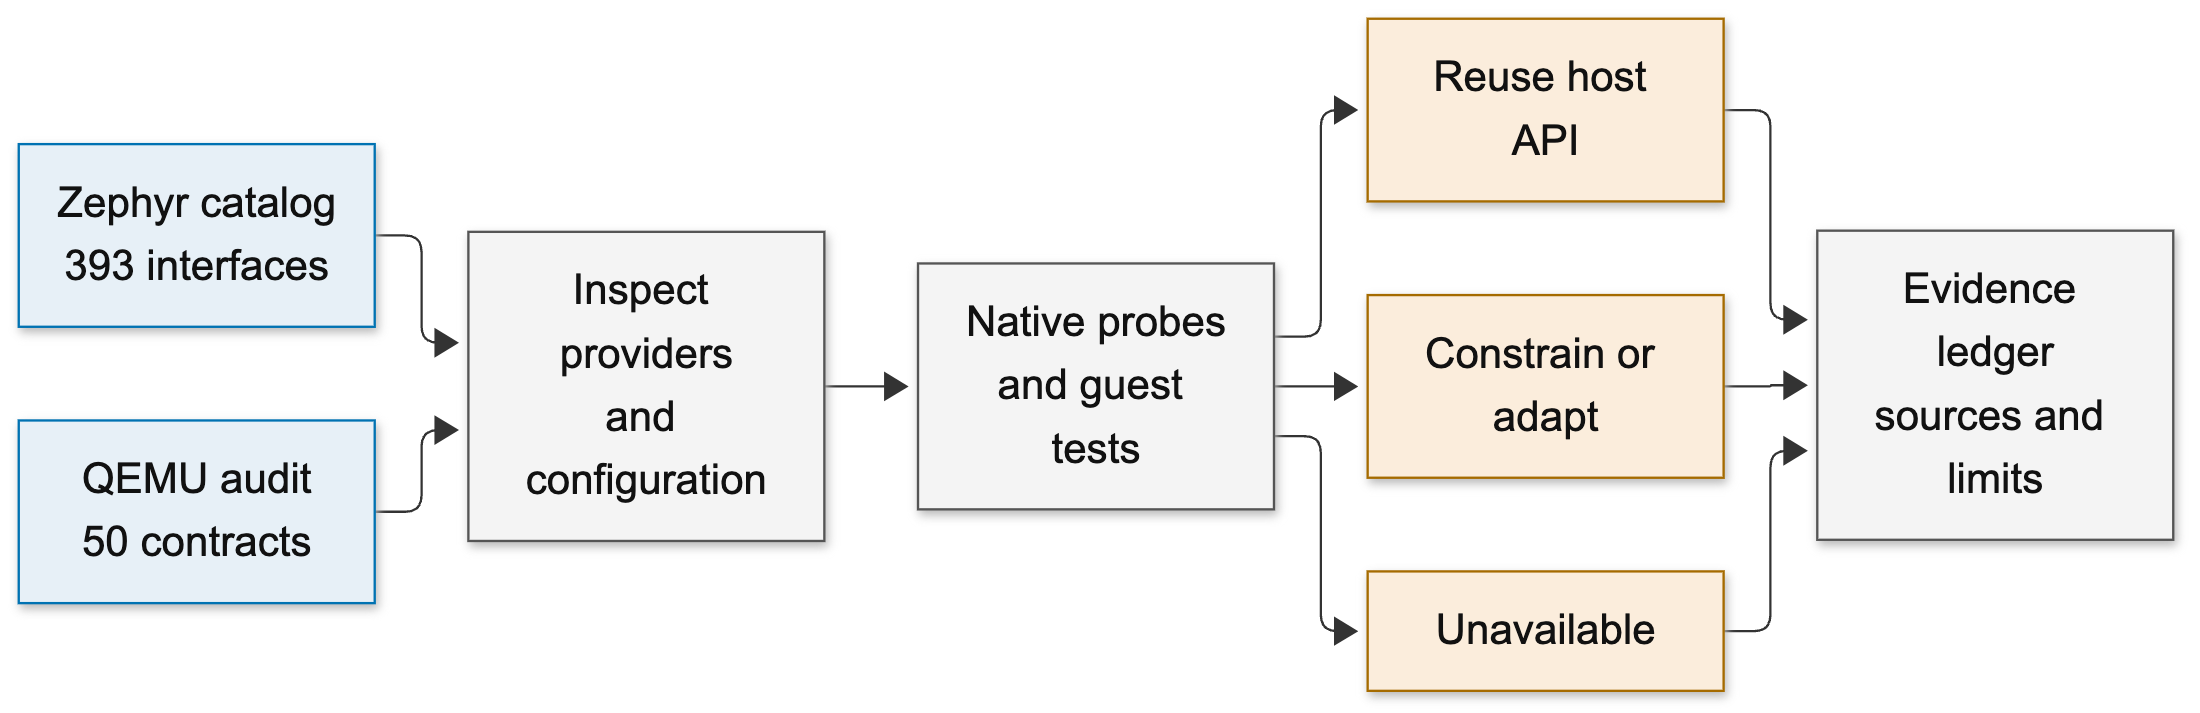
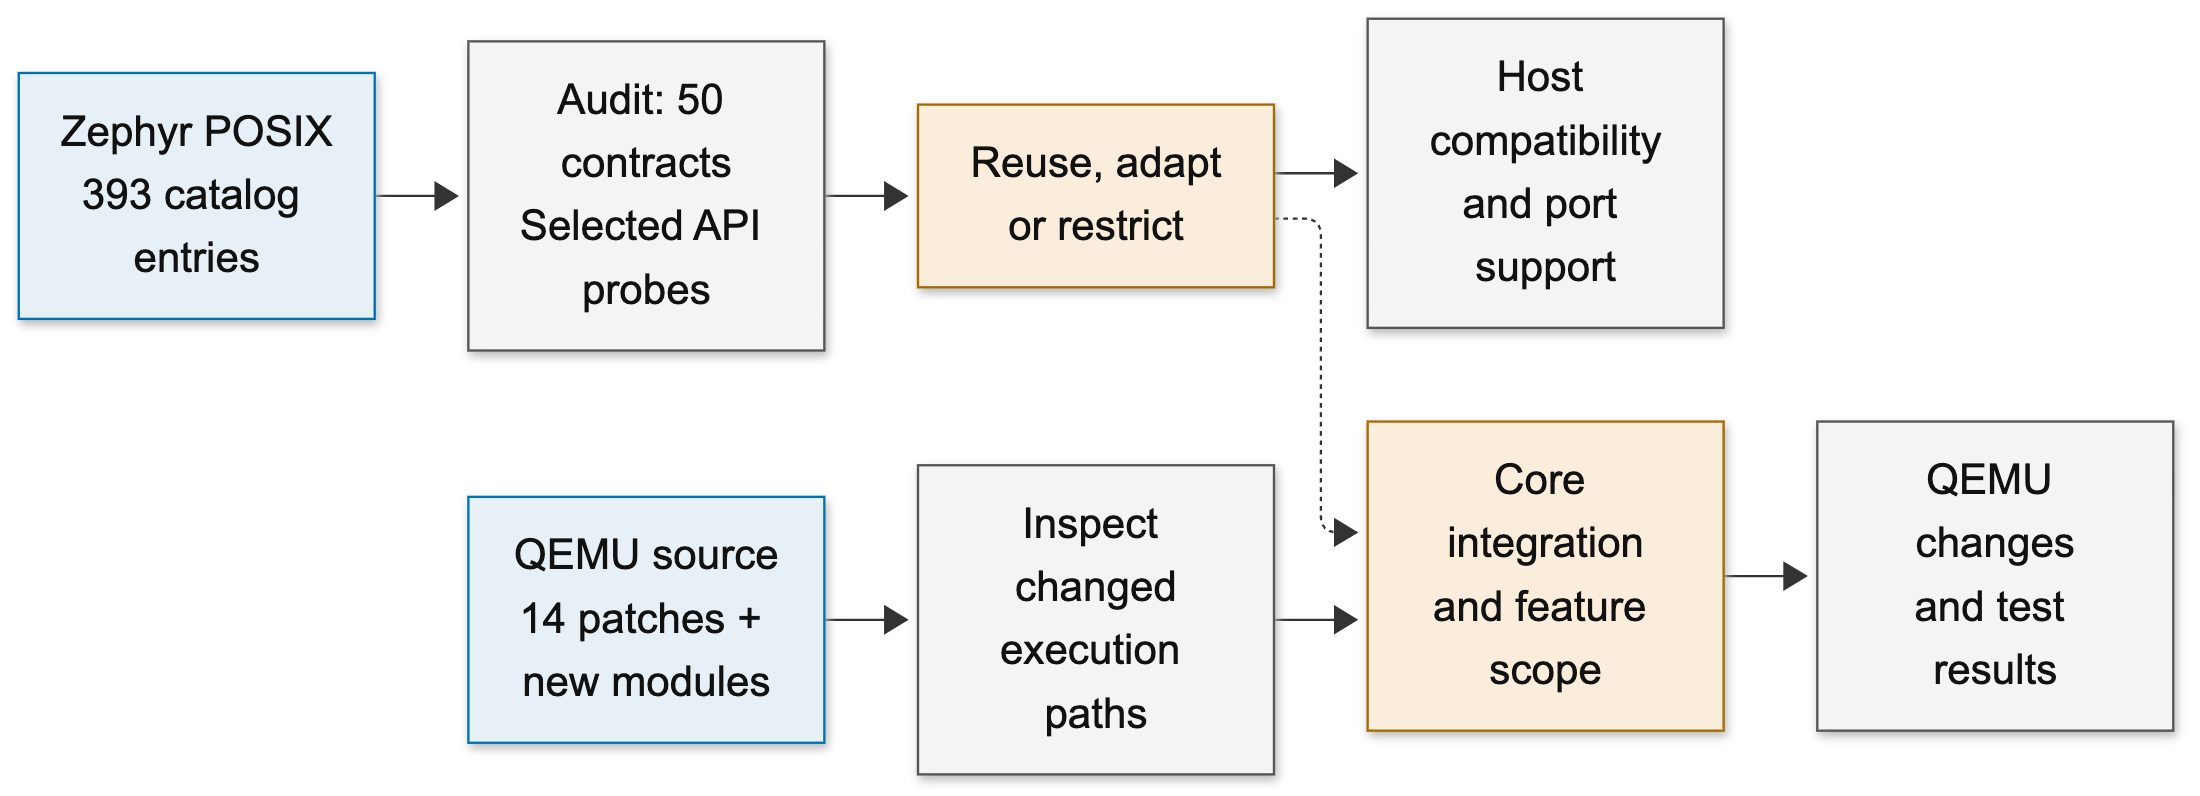
docs: separate host compatibility from QEMU implementation changes
Organize the paper around POSIX behavior and added port support, followed
by changes to QEMU source and execution paths. Classify libraries, build,
storage and Zephyr architecture support alongside their host API roles.

Record existing QEMU patches by purpose with a source-checked ledger.
Describe new modules, retained components and build exclusions, and show
the causal link between host constraints and emulator changes in the flow.

Verify patch statistics, retained POSIX observations, document links,
diagram rendering and compilation of the current LaTeX source.

diff --git a/docs/paper.tex b/docs/paper.tex
@@ -55,6 +55,10 @@ operations. File mappings, positional I/O, signals, and process lifetime
 require adapters or restricted behavior. Source inspection, native API
 probes, and guest executions identify these limits.
 
+Host compatibility depends on POSIX behavior, added libraries, and Zephyr
+kernel support. QEMU needs 14 patches to existing files plus new machine,
+accelerator, and user-runtime modules.
+
 The Zephyr catalog lists 393 interfaces, with qualifications or missing
 support labels for 104 entries. A separate audit of 50 host interfaces finds
 31 reused APIs, eight adaptations, two metadata limits, and nine unavailable
@@ -80,16 +84,17 @@ and C library determine which POSIX services the application can
 use~\cite{zephyr-posix}. The port must account for API behavior, resource
 limits, and this shared runtime. The evaluation records direct API use,
 project adaptations, and missing behavior for the fixed source revisions.
+It also records how the port changes QEMU execution paths and which upstream
+components it retains.
 
 \section{Assessment scope}
 \label{sec:frame}
 
-The assessment separates the host POSIX API, QEMU library requirements, and
-the guest Linux ABI. Each finding records its implementation, configuration,
-adapter, and test result. Source inspection identifies code paths such as
-\code{ENOSYS} returns. Runtime observations establish behavior for the
-executed inputs. Figure~\ref{fig:assessment-flow} gives the workflow;
-Section~\ref{sec:inventory} defines the two inventory denominators.
+The assessment uses two axes (Figure~\ref{fig:assessment-flow}).
+The first records POSIX behavior and the support added during the port.
+The second records changes to QEMU code and its execution model.
+One host limitation can cause changes on both axes; the records retain that
+causal link.
 
 \begin{figure*}[t]
 \centering
@@ -97,58 +102,103 @@ Section~\ref{sec:inventory} defines the two inventory denominators.
 \resizebox{\textwidth}{!}{%
 \begin{tikzpicture}[x=1mm,y=1mm,
   box/.style={draw=black!65,fill=black!3,rounded corners=1mm,
-    text width=24mm,minimum height=10mm,align=center,font=\footnotesize},
+    text width=28mm,minimum height=14mm,align=center,font=\footnotesize},
   inputbox/.style={box,draw=posixblue,fill=posixblue!9},
   route/.style={box,draw=posixorange!75!black,fill=posixorange!12},
   edge/.style={-{Stealth[length=1.8mm]},line width=0.5pt}]
-\node[inputbox] (A) at (0,9) {Zephyr catalog\\393 interfaces};
-\node[inputbox] (B) at (0,-9) {QEMU audit\\50 contracts};
-\node[box] (C) at (34,0) {Inspect providers\\and configuration};
-\node[box] (D) at (68,0) {Native probes\\and guest tests};
-\node[route] (E) at (102,16) {Reuse host API};
-\node[route] (F) at (102,0) {Constrain or adapt};
-\node[route] (G) at (102,-16) {Unavailable};
-\node[box] (H) at (136,0) {Evidence ledger\\sources and limits};
-\draw[edge] (A.east) -- (C.west);
-\draw[edge] (B.east) -- (C.west);
+\node[inputbox] (A) at (0,13) {Zephyr POSIX\\393 catalog entries};
+\node[box] (B) at (45,13) {Audit: 50 contracts\\Selected API probes};
+\node[route] (C) at (90,13) {Reuse, adapt\\or restrict};
+\node[box] (D) at (135,13) {Host compatibility\\and port support};
+\node[inputbox] (E) at (0,-13) {QEMU source\\14 patches + new modules};
+\node[box] (F) at (45,-13) {Inspect changed\\execution paths};
+\node[route] (G) at (90,-13) {Core integration\\and feature scope};
+\node[box] (H) at (135,-13) {QEMU changes\\and test results};
+\draw[edge] (A) -- (B);
+\draw[edge] (B) -- (C);
 \draw[edge] (C) -- (D);
-\draw[edge] (D.east) -- (E.west);
-\draw[edge] (D) -- (F);
-\draw[edge] (D.east) -- (G.west);
-\draw[edge] (E.east) -- (H.west);
-\draw[edge] (F) -- (H);
-\draw[edge] (G.east) -- (H.west);
+\draw[edge] (E) -- (F);
+\draw[edge] (F) -- (G);
+\draw[edge] (G) -- (H);
+\draw[edge,dashed] (C.south) -- (G.north);
 \end{tikzpicture}}
-\caption{Assessment workflow. Each finding retains its provider,
-configuration, evidence and limitations.}
+\caption{Two assessment axes. The upper path records host behavior and
+additional port support. The lower path records QEMU implementation changes.
+The dashed edge links a host constraint to its effect on QEMU.}
 \label{fig:assessment-flow}
 \end{figure*}
 
-\subsection{The host POSIX interface}
+\subsection{Host compatibility and port support}
 
 QEMU calls Zephyr and Picolibc for threads, clocks, files, and related host
 services. The application enables compiler TLS and sets finite limits for
 threads, mutexes, condition variables, and descriptors. These settings are in
 \source{apps/qemu_linux/prj.conf} and \source{zephyr/Kconfig}.
 
-\subsection{QEMU library requirements}
+This axis records direct POSIX use, restricted behavior, and missing services.
+It also identifies additional library, build, storage, and kernel support.
+Sections~\ref{sec:porting} and~\ref{sec:assessment} give the implementations
+and observations.
 
-QEMU uses the QEMU Object Model (QOM), MemoryRegion, the big QEMU lock (BQL),
-and read-copy-update (RCU). The port includes GLib containers and TCG.
-The GLib tests record library behavior. Feature exclusions, such as
-migration, describe this QEMU build. They require source analysis before
-attribution to a missing POSIX service.
+GLib supplies library behavior outside POSIX. User programs issue Linux
+AArch64 syscall numbers, while Zephyr generates its kernel syscall identifiers
+at build time~\cite{zephyr-implementation}. The guest ABI adapter in
+\source{src/qemu/ports/zephyr/user-syscall.c} has separate results.
 
-\subsection{The guest Linux ABI}
+\subsection{QEMU implementation changes}
 
-User programs issue Linux AArch64 syscall numbers. Zephyr uses kernel syscall
-identifiers generated at build time~\cite{zephyr-implementation}.
-\source{src/qemu/ports/zephyr/user-syscall.c} translates the Linux ABI to host
-operations. Guest syscall tests examine this adapter and the host services
-that it calls.
+This axis records patches to existing QEMU files, new QEMU modules, and
+features excluded from the build. It identifies the changed execution paths
+and the upstream components that remain in use.
+Section~\ref{sec:qemu-changes} gives the patch groups and module roles.
 
-\section{Porting method}
+Core components include the QEMU Object Model (QOM), big QEMU lock (BQL),
+and read-copy-update (RCU).
+
+For example, the host probe records \code{mprotect()} returning
+\code{ENOSYS}. The QEMU change record identifies the TCG and memory-helper
+changes that enforce guest permissions. The first result describes host
+behavior; the second describes the emulator's response.
+
+\section{Host compatibility: added port support}
 \label{sec:porting}
+
+The port adds the support in Table~\ref{tab:port-support}. Its POSIX wrappers
+reuse enabled APIs. Other additions supply library behavior, kernel
+integration, or application control.
+The Zephyr series in \source{patches/zephyr/series} contains six architecture
+patches and one Ext2 patch.
+
+\begin{table*}[t]
+\caption{Support added to host QEMU on Zephyr. These components have distinct
+roles in the POSIX assessment.}
+\label{tab:port-support}
+\small
+\begin{tabularx}{\textwidth}{@{}>{\raggedright\arraybackslash}p{0.19\textwidth}YY@{}}
+\toprule
+Area & Added support & Attribution\\
+\midrule
+Files & Private mapped-file snapshots; seek/I/O/restore; read-only Ext2
+synchronization fix & File adapter and filesystem changes; native POSIX
+behavior remains subject to descriptor and metadata limits.\\
+Memory and faults & Writable/executable JIT aliases; bounded guest mappings;
+checked user accesses & Kernel APIs and QEMU adapters supply the required
+behavior; host mprotect remains unavailable.\\
+Threads and lifetime & One QEMU owner; BQL tracking; deferred RCU callbacks;
+timer exits; worker-local exit target & Pthread APIs supply threads and locks;
+the port defines ownership, event handling, and guest lifetime.\\
+Libraries and build & GLib subset; libfdt/zlib integration; CMake source
+selection and upstream generators & Dependency and build support outside
+the POSIX interface count.\\
+Storage and commands & VirtIO disk attachment; Ext2 mount; UART shell
+commands and argument ownership & Application integration for image loading,
+manual launch, and return to the shell.\\
+EL2 platform & Non-VHE entry; Stage-2 mappings; interrupt/timer handling;
+TLS and SIMD/FP context & Zephyr architecture support used by the new QEMU
+accelerator; independent of POSIX API completeness.\\
+\bottomrule
+\end{tabularx}
+\end{table*}
 
 \subsection{Build from fixed revisions}
 
@@ -212,7 +262,7 @@ calls the same handler through \code{shell\_execute\_cmd()}~\cite{shell}.
 A worker-local exit target converts QEMU loader exits to command results.
 \source{src/qemu/ports/zephyr/console-uart.c} implements the console adapter.
 
-\section{Zephyr POSIX support}
+\section{Host compatibility: POSIX results}
 \label{sec:assessment}
 
 \subsection{Interface inventories}
@@ -441,8 +491,81 @@ The results apply to the fixed revisions, configured resources, and one
 QEMU owner thread. Full POSIX evaluation requires a declared profile and
 tests of its complete interface requirements, error paths, and concurrency.
 
-\section{Simulation and virtualization}
+\section{QEMU implementation changes}
+\label{sec:qemu-changes}
 \label{sec:capabilities}
+
+\subsection{Changes to existing source}
+
+The series contains 14 patches to 34 QEMU files, with 348 inserted lines and
+87 deleted lines. Table~\ref{tab:qemu-patches} groups patches by their main
+purpose. The numbers refer to \source{patches/qemu/series}; the data is in
+\source{docs/data/qemu-patches.csv}.
+
+These counts describe edits to existing files. New host, machine, accelerator,
+and user-runtime modules reside under \source{src/qemu/}. Zephyr architecture
+extensions reside under \source{src/zephyr/}. The Cortex-A72 move accounts
+for 62 inserted and 62 deleted lines, with its register values retained.
+
+\begin{table*}[t]
+\caption{Patches to existing QEMU files, grouped by main purpose. Insertions
+and deletions count physical diff lines; new module files are outside these totals.}
+\label{tab:qemu-patches}
+\small
+\begin{tabularx}{\textwidth}{@{}>{\raggedright\arraybackslash}p{0.20\textwidth}lrrY@{}}
+\toprule
+Group & Patches & Added & Deleted & QEMU behavior changed\\
+\midrule
+Host interface & 0001--0005 & 68 & 8 & Headers, macro names, page size,
+aligned allocation, file paths, optional timestamps, and deterministic random mode.\\
+CPU and runstate & 0006, 0010 & 66 & 2 & Accelerator initialization,
+non-signal CPU wakeup, guest shutdown/reset, and omitted GDB or migration hooks.\\
+Device, loader, RAM & 0007--0009 & 47 & 1 & Migration registration,
+firmware-configuration services, and host memory-backend assumptions.\\
+TCG code allocation & 0011 & 14 & 1 & JIT buffer allocation through the
+Zephyr writable/executable aliases.\\
+CPU models & 0012--0013 & 67 & 62 & GICv3-only initialization and
+shared Cortex-A72 registration across accelerators.\\
+Linux user execution & 0014 & 86 & 13 & Checked memory access, code
+invalidation, ELF metadata policy, virtual identity, and omitted Linux host services.\\
+\midrule
+Total & 14 patches & 348 & 87 & 34 existing files.\\
+\bottomrule
+\end{tabularx}
+\end{table*}
+
+\subsection{Core execution changes}
+
+CPU initialization calls the accelerator hook during ARM object construction.
+Runstate changes pass shutdown and reset requests to the QEMU owner.
+CPU wakeup uses the accelerator callback in place of a host signal.
+The RAM path accepts preallocated memory and rejects unsupported remapping.
+
+User TCG sends generated loads and stores through checked helpers.
+Atomic and bulk-memory helpers verify guest access, including DC ZVA.
+Writes to translated code trigger invalidation without host
+\code{mprotect()}. The ELF path uses the available metadata and a virtual
+root identity. It omits the Linux host vDSO, signal trampoline, and core dumps.
+
+\subsection{New modules and build profile}
+
+\source{src/qemu/ports/zephyr/machine.c} defines \code{zephyr-virt}; the bootstrap and
+option modules provide its launch path. The \code{zephyr} accelerator and
+ARM adapter connect QEMU CPU and device state to \code{zhv}.
+\source{src/qemu/ports/zephyr/tcg.c} binds the upstream execution loop to the owner
+thread and Zephyr timers.
+
+The user build adds \source{user.c}, \source{user-memory.c}, and
+\source{user-syscall.c} under \source{src/qemu/ports/zephyr/}.
+It retains upstream TCG and ELF loading but supplies its own syscall dispatch,
+memory policy, and process lifetime. The GLib subset belongs to host
+dependency support in Section~\ref{sec:porting}.
+
+The selected source lists omit migration, general monitor services, and the
+inner GDB server. Other exclusions appear in Section~\ref{sec:implications}.
+QEMU still supplies instruction decoders, translation blocks, QOM/qdev,
+MemoryRegion dispatch, PL011, software GICv3, and ELF parsing.
+BQL and RCU remain part of that runtime.
 
 \subsection{QEMU machine and TCG execution}
 

diff --git a/docs/posix-assessment.md b/docs/posix-assessment.md
@@ -1,6 +1,7 @@
 # POSIX interface assessment
 
-This assessment uses Zephyr revision
+This assessment records two aspects of the port: host compatibility and
+additional port support, then QEMU implementation changes. It uses Zephyr revision
 `ba25413e5b6b2661a71db24888f6b89274f1480d` and the QEMU port implementation
 at `2b1161806afe14fe57dec97234f37aac1ea84e5e`. The inventories and native
 experiment were prepared on 9 October 2026. The [paper](paper.tex) includes
@@ -135,11 +136,47 @@ thread semantics, process isolation and real-time bounds were not measured.
 
 ## Assessment workflow
 
-![Two inventories feed provider and configuration inspection, then native probes and guest tests; the resulting reuse, adaptation and unavailable cases are recorded with sources and limitations.](figures/posix-porting-flow.svg)
+![Two assessment paths record host compatibility and QEMU implementation changes. A dashed link connects a host constraint to its effect on the emulator.](figures/posix-porting-flow.svg)
 
 The editable [Mermaid source](figures/posix-porting-flow.mmd) and the inline
-LaTeX rendering retain the same eight nodes and nine edges. SVG and PNG
+LaTeX rendering retain the same eight nodes and seven edges. SVG and PNG
 exports are provided for reuse in documentation and presentation materials.
+
+The host path records native POSIX behavior, project adapters, and support
+from libraries, build tools, storage drivers, and the Zephyr kernel. The QEMU
+path records patches, new modules, changed execution paths, and build
+exclusions. The axes identify cause and implementation. A single change can
+appear on both axes without representing two independent contributions.
+
+## QEMU implementation changes
+
+The [patch ledger](data/qemu-patches.csv) records the 14 patches in
+[patches/qemu/series](../patches/qemu/series). They affect 34 existing files,
+with 348 inserted lines and 87 deleted lines. Counts come from
+`git apply --numstat` for each patch and include physical diff lines.
+New files under `src/qemu/` and Zephyr kernel extensions are outside these
+totals. The Cortex-A72 move contributes 62 additions and 62 deletions while
+retaining its register definitions.
+
+| Main purpose | Patches | Added lines | Deleted lines | QEMU changes |
+| --- | --- | ---: | ---: | --- |
+| Host interface | 0001–0005 | 68 | 8 | Headers, macro handling, allocation, paths, optional timestamps and deterministic random mode |
+| CPU and runstate | 0006, 0010 | 66 | 2 | Accelerator hooks, non-signal wakeup, shutdown/reset and omitted GDB or migration hooks |
+| Device, loader and RAM profile | 0007–0009 | 47 | 1 | Migration registration, firmware services and memory-backend assumptions |
+| TCG code allocation | 0011 | 14 | 1 | JIT allocation through writable/executable aliases |
+| CPU models | 0012–0013 | 67 | 62 | GICv3-only initialization and shared Cortex-A72 registration |
+| Linux user execution | 0014 | 86 | 13 | Checked memory accesses, invalidation, ELF policy, identity and omitted Linux host services |
+
+New QEMU modules supply `zephyr-virt`, the `zephyr` accelerator, the ARM
+adapter, TCG owner-thread integration, command startup, and the user runtime.
+The user build retains TCG and ELF parsing with project syscall, memory and
+lifetime policies. The GLib subset supplies host dependency support.
+Zephyr EL2 code supplies the kernel executor used by the QEMU accelerator.
+
+Host gaps and QEMU mechanisms have distinct evidence. For example, native
+`mprotect` returns `ENOSYS`; the QEMU patch redirects user memory accesses
+through checked helpers. POSIX API behavior belongs to the host assessment.
+The emitter, helper and invalidation changes belong to the QEMU change record.
 
 ## Reproduction and figure provenance
 
